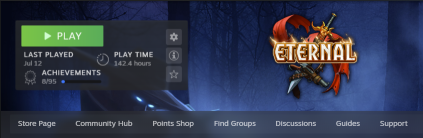
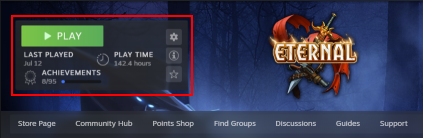
Image Tooltips and minor theme changes, CSS achievement highlight

Changed region(s): [[0.0, 0.087, 0.461, 0.6957]]

diff --git a/scss/_gamepage_sections.scss b/scss/_gamepage_sections.scss
@@ -30,5 +30,42 @@ div.appdetailsoverview_RightColumn_2aor4>div:nth-child(3) {
   order: 5;
 }
 
+/* Section Highlight */
+.appdetailsoverview_Seeking_3wz2S {
+  /* Don't do anything yet */
+  opacity: 1.0;
+  animation-name: var(--AchievementsClickHighlight);
+  animation-duration: 1s;
+  animation-timing-function: ease-in-out;
+  animation-iteration-count: 1;
+  animation-delay: .6s; }
+
+@keyframes appdetailsoverview_HighlightMe_25jnp {
+  0% {
+    filter: brightness(1); }
+  30% {
+    filter: brightness(2); }
+  100% {
+    filter: brightness(1); }
+  }
+
+@keyframes Highlight_opacity {
+  0% {
+    filter: opacity(100%); }
+  30% {
+    filter: opacity(0%); }
+  100% {
+    filter: opacity(100%); }
+}
+
+@keyframes Highlight_border {
+  0% {
+    border: 0px; }
+  30% {
+    border: 2px solid black; }
+  100% {
+    border: 0px; }
+}
+
 /* ========================================================================== 
    END Game AppPage Sections */

diff --git a/variables.css b/variables.css
@@ -28,6 +28,7 @@
   /* Game Page Layout */
   --FriendsDLCScreenshotsColumnWidth: 61%;  /* Default: 33%. Determines width of the Friends Who Play/Achievements/Screenshots/DLC/Trading Cards column. Friend Activity/News column will fill the rest. */
   --SwapColumns: left;  /* Default: right. Set left to swap columns. */
+  --AchievementsClickHighlight: Highlight_opacity;  /* Default: appdetailsoverview_HighlightMe_25jnp. Options: Highlight_opacity Highlight_border. Set to disabled to disable. */
 
   /* Game Page Background */
   --AppPageBlur: 2px;  /* Default: 8px. Controls the blur between the Header and AppPage content. 2px for a more clean look. */

diff --git a/old_glory.py b/old_glory.py
@@ -1,7 +1,7 @@
 import tkinter as tk
 import tkinter.font as TkFont
 from tkinter import ttk
-from idlelib.tooltip import Hovertip, OnHoverTooltipBase, Message
+from idlelib.tooltip import Hovertip, OnHoverTooltipBase
 from PIL import ImageTk, Image
 import sys
 import io
@@ -21,7 +21,7 @@ from tkHyperlinkManager import HyperlinkManager
 
 
 OS_TYPE = platform.system()
-DEBUG_STDOUT_STDERR = False # Only useful for debugging purposes, set to True
+DEBUG_STDOUT_STDERR = True # Only useful for debugging purposes, set to True
 
 class OldGloryApp(tk.Tk):
     def __init__(self, *args, **kwargs):
@@ -294,6 +294,7 @@ class StartPage(tk.Frame):
                                  textvariable=self.dropdown6_value,
                                  width=30)
         self.dropdown6.current(0)
+        
         self.dropdown6.bind("<<ComboboxSelected>>", lambda event: dropdown_click(event, self, controller))
         self.dropdown6.grid(row=6, column=1, columnspan=2, sticky="w")
         
@@ -772,6 +773,8 @@ class MainOption(tk.Frame):
         self.label.bind("<Button-1>", lambda event: globals()["change_image"](self.page.image1, globals()["resource_path"](self.image)))
         self.label.grid(row=0, column=0, sticky='w')
 
+        self.tip = Image_tooltip(self.label, globals()["open_img"](self.image), hover_delay=400)
+
         for i, tagName in enumerate(kwargs["tags"], start=1):
             leftPadding = (5, 0) if i == 1 else 0
             tag = add_img(self.tagFrame, globals()["resource_path"]('images/tag_'+tagName+'.png'), width=50)
@@ -781,6 +784,7 @@ class MainOption(tk.Frame):
         return self.tagFrame
 
 ### Dropdown click (theme)
+### This is a backup list - .json provides an updated theme list
 ###
 THEME_MAP = {
     "steam-library (Shiina)" : {
@@ -806,11 +810,15 @@ def dropdown_click(event, page, controller):
     #print(theme_name)
     #print(controller.json_data["themes"][theme_name.split(" (")[0]]["filename"])
     theme_image_path = resource_path("images/theme_" + controller.json_data["themes"][theme_name.split(" (")[0]]["filename"][1:-5] + ".png")
+    
+    
     if os.path.isfile(theme_image_path):
         #change_image
-        change_image(page.image1, theme_image_path)
+        #change_image(page.image1, theme_image_path)
+        tip = Image_tooltip(event.widget, open_img(theme_image_path), hover_delay=100)
     else:
-        change_image(page.image1, resource_path("images/no_preview.png"))
+        #change_image(page.image1, resource_path("images/no_preview.png"))
+        tip = Image_tooltip(event.widget, open_img(resource_path("images/no_preview.png")), hover_delay=100)
 
 ### ScrollFrame
 
@@ -1132,9 +1140,21 @@ class Detail_tooltip(OnHoverTooltipBase):
         self.text = text
         
     def showcontents(self):
-        message = Message(self.tipwindow, text=self.text, justify='left',
+        message = tk.Message(self.tipwindow, text=self.text, justify='left',
                       background="#ffffe0", width=590, relief='solid', borderwidth=1)
         message.pack()
+
+class Image_tooltip(OnHoverTooltipBase):
+    def __init__(self, anchor_widget, image, hover_delay=1000):
+        super(Image_tooltip, self).__init__(anchor_widget, hover_delay=hover_delay)
+        #self.text = text
+        self.image = image
+
+    def showcontents(self):
+        label = tk.Label(self.tipwindow, image=self.image, justify='left',
+                      background="#ffffe0", width=350, relief='solid', borderwidth=1)
+        label.pack()   
+    
 ### ================================
 
 ### CSS Options Functions
@@ -1805,6 +1825,7 @@ def settings_window(event, controller):
     button_q.bind("<Button-1>", lambda event:remake_js(event, controller))
     buttonr_tip = Detail_tooltip(button_q, "Deletes libraryroot.beaut.js and reruns js_tweaker functions.\n" \
                                  "Most useful when something changes with a Steam Client Update", hover_delay=200)
+    #buttonr_tip.add_image(open_img("images/full_layout.png"))
     button_q.grid(row=0, column=0, padx=5)
 
     ###

diff --git a/js_tweaker.py b/js_tweaker.py
@@ -52,7 +52,7 @@ def copy_files_from_steam(reset=0): #set reset to 1 to overwrite files with fres
             files_to_copy = ["library.js", "libraryroot.js"]
             for filename in files_to_copy:
                 if not os.path.isfile(filename):
-                    print("Copying file " + filename + "from Steam\steamui...")
+                    print("Copying file " + filename + " from Steam\steamui...")
                     shutil.copy2(library_dir() + "/" + filename, filename)
             if os.path.exists("libraryroot.beaut.js"):
                 os.remove("libraryroot.beaut.js")
